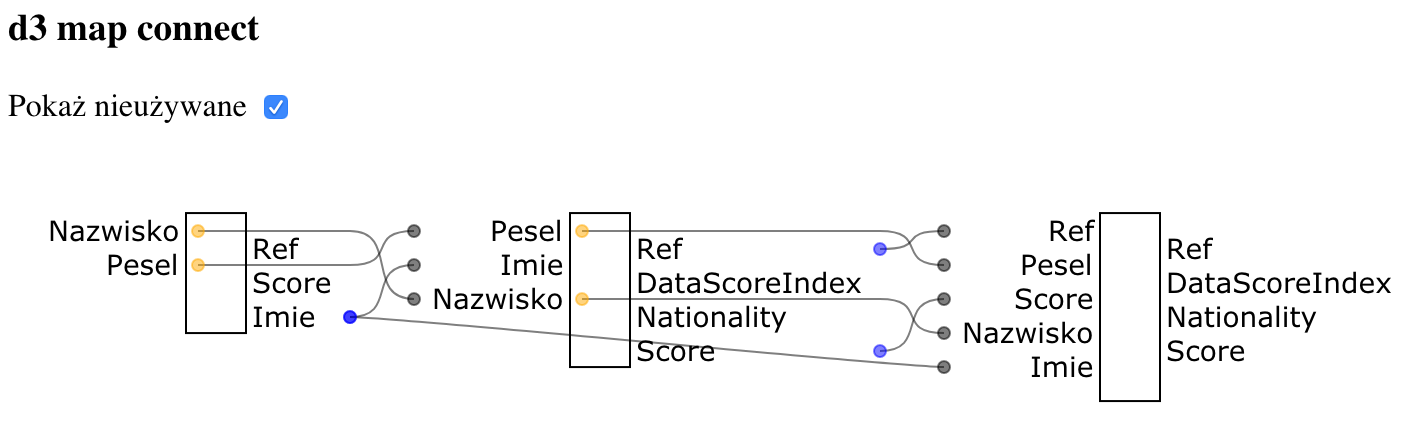
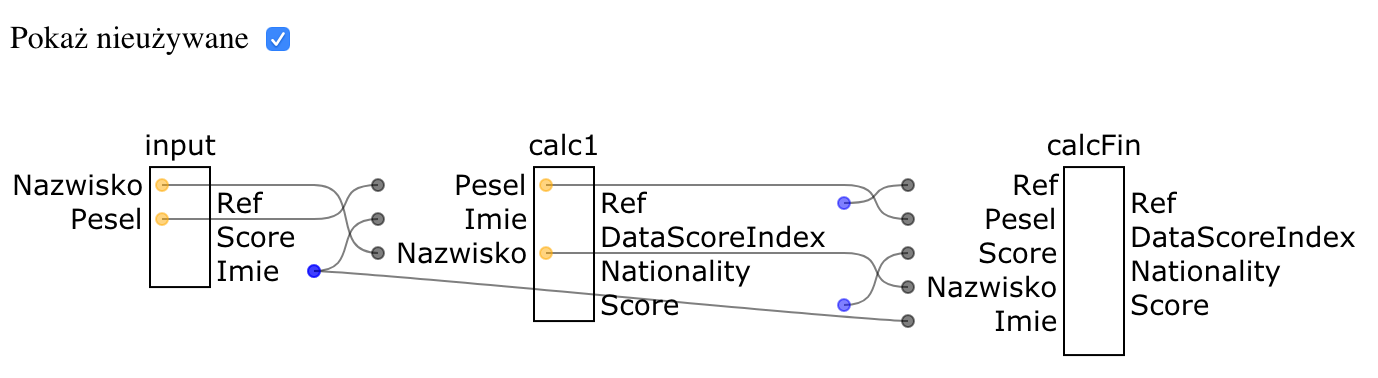
opisy nazwy

diff --git a/js/d3-map-connect.js b/js/d3-map-connect.js
@@ -26,7 +26,8 @@ var d3MapConnect = (function (undefined) {
           y: 30
         }
       },
-      showUnused: true
+      showUnused: true,
+      nodeNameFn: function _nodeNameFn(name) { return name; }
     }, options);
     this.refs = {
       chart: undefined,
@@ -247,6 +248,17 @@ var d3MapConnect = (function (undefined) {
         .attr('height', blockRef.height + heightAdd)
         .attr('stroke', this.options.chart.fontStroke)
         .attr('fill', 'transparent');
+      
+      // narysowanie opisu bloku
+      if (blockRef.data.id) {
+        blockRef.node.append('text')
+          .attr('x', blockRef.x + blockRef.request.width + this.options.chart.blockInnerMargin + Math.ceil(this.options.chart.blockInnerSize / 2))
+          .attr('y', blockRef.y - 2 * this.options.chart.blockInnerMargin)
+          .attr('text-anchor', 'middle')
+          .attr('font-family', this.options.chart.fontFamily)
+          .attr('font-size', this.options.chart.fontSize)
+          .text(blockRef.data.id);
+      }
     }
 
     function drawInputOutputs(x, y, width, align, parentNode, nameNodesArray) {
@@ -270,11 +282,12 @@ var d3MapConnect = (function (undefined) {
         return y + yScale(name) * ySpacing + ySize + yOffset;
       }
       
+      var _this = this;
       node.enter().append('text')
         .attr('y', function (d) { return yScaleFn(d.name); })
         .attr('font-family', this.options.chart.fontFamily)
         .attr('font-size', this.options.chart.fontSize)
-        .text(function (d) { return d.name; })
+        .text(function (d) { return _this.options.nodeNameFn(d.name); })
         .each(function (d) { d.width = Math.ceil(this.getComputedTextLength()); })
         .attr('x', function (d) { return ('end' !== align ? x : x + width - d.width); });
       
@@ -288,9 +301,10 @@ var d3MapConnect = (function (undefined) {
 
     function calcLongestTextWidth(parentNode, nameNodesArray) {
 
-      var resp = 0;
+      var resp = 0,
+        _this = this;
       parentNode.selectAll('text')
-        .data(nameNodesArray.map(function (el) { return el.name; }))
+        .data(nameNodesArray.map(function (el) { return _this.options.nodeNameFn(el.name); }))
         .enter().append('text')
         .attr('class', 'text-length-calc')
         .attr('font-family', this.options.chart.fontFamily)

diff --git a/js/d3-map-connect.d.ts b/js/d3-map-connect.d.ts
@@ -11,7 +11,7 @@ declare namespace d3MapConnect {
 
     interface IFlowModel {
         blocks: Array<IBlock>;
-        
+        maps: Array<IMap>;
     }
 
     interface IBlock {
@@ -24,5 +24,22 @@ declare namespace d3MapConnect {
         name: string;
     }
 
-    function connectWith(node: any): IMapVisualizer;
+    interface IMap {
+        name: string;
+        sourceBlockId: string;
+        destinationBlockId: string;
+        mapping: Array<IMapping>;
+    }
+
+    interface IMapping {
+        src: string;
+        dst: string;
+    }
+
+    interface IOptions {
+        showUnused: boolean;
+        nodeNameFn: (name: string) => string;
+    }
+
+    function connectWith(node: any, options?: IOptions): IMapVisualizer;
 }

diff --git a/js/app.js b/js/app.js
@@ -76,7 +76,10 @@ var data = {
         }
     ]
 }
-var mapFlow = d3MapConnect.connectWith(document.querySelector('.chart-container'))
+var mapFlow = d3MapConnect.connectWith(
+    document.querySelector('.chart-container'),
+    { showUnused: true }
+);
 mapFlow.setData(data);
 
 function updateShowUnused(evt) {
